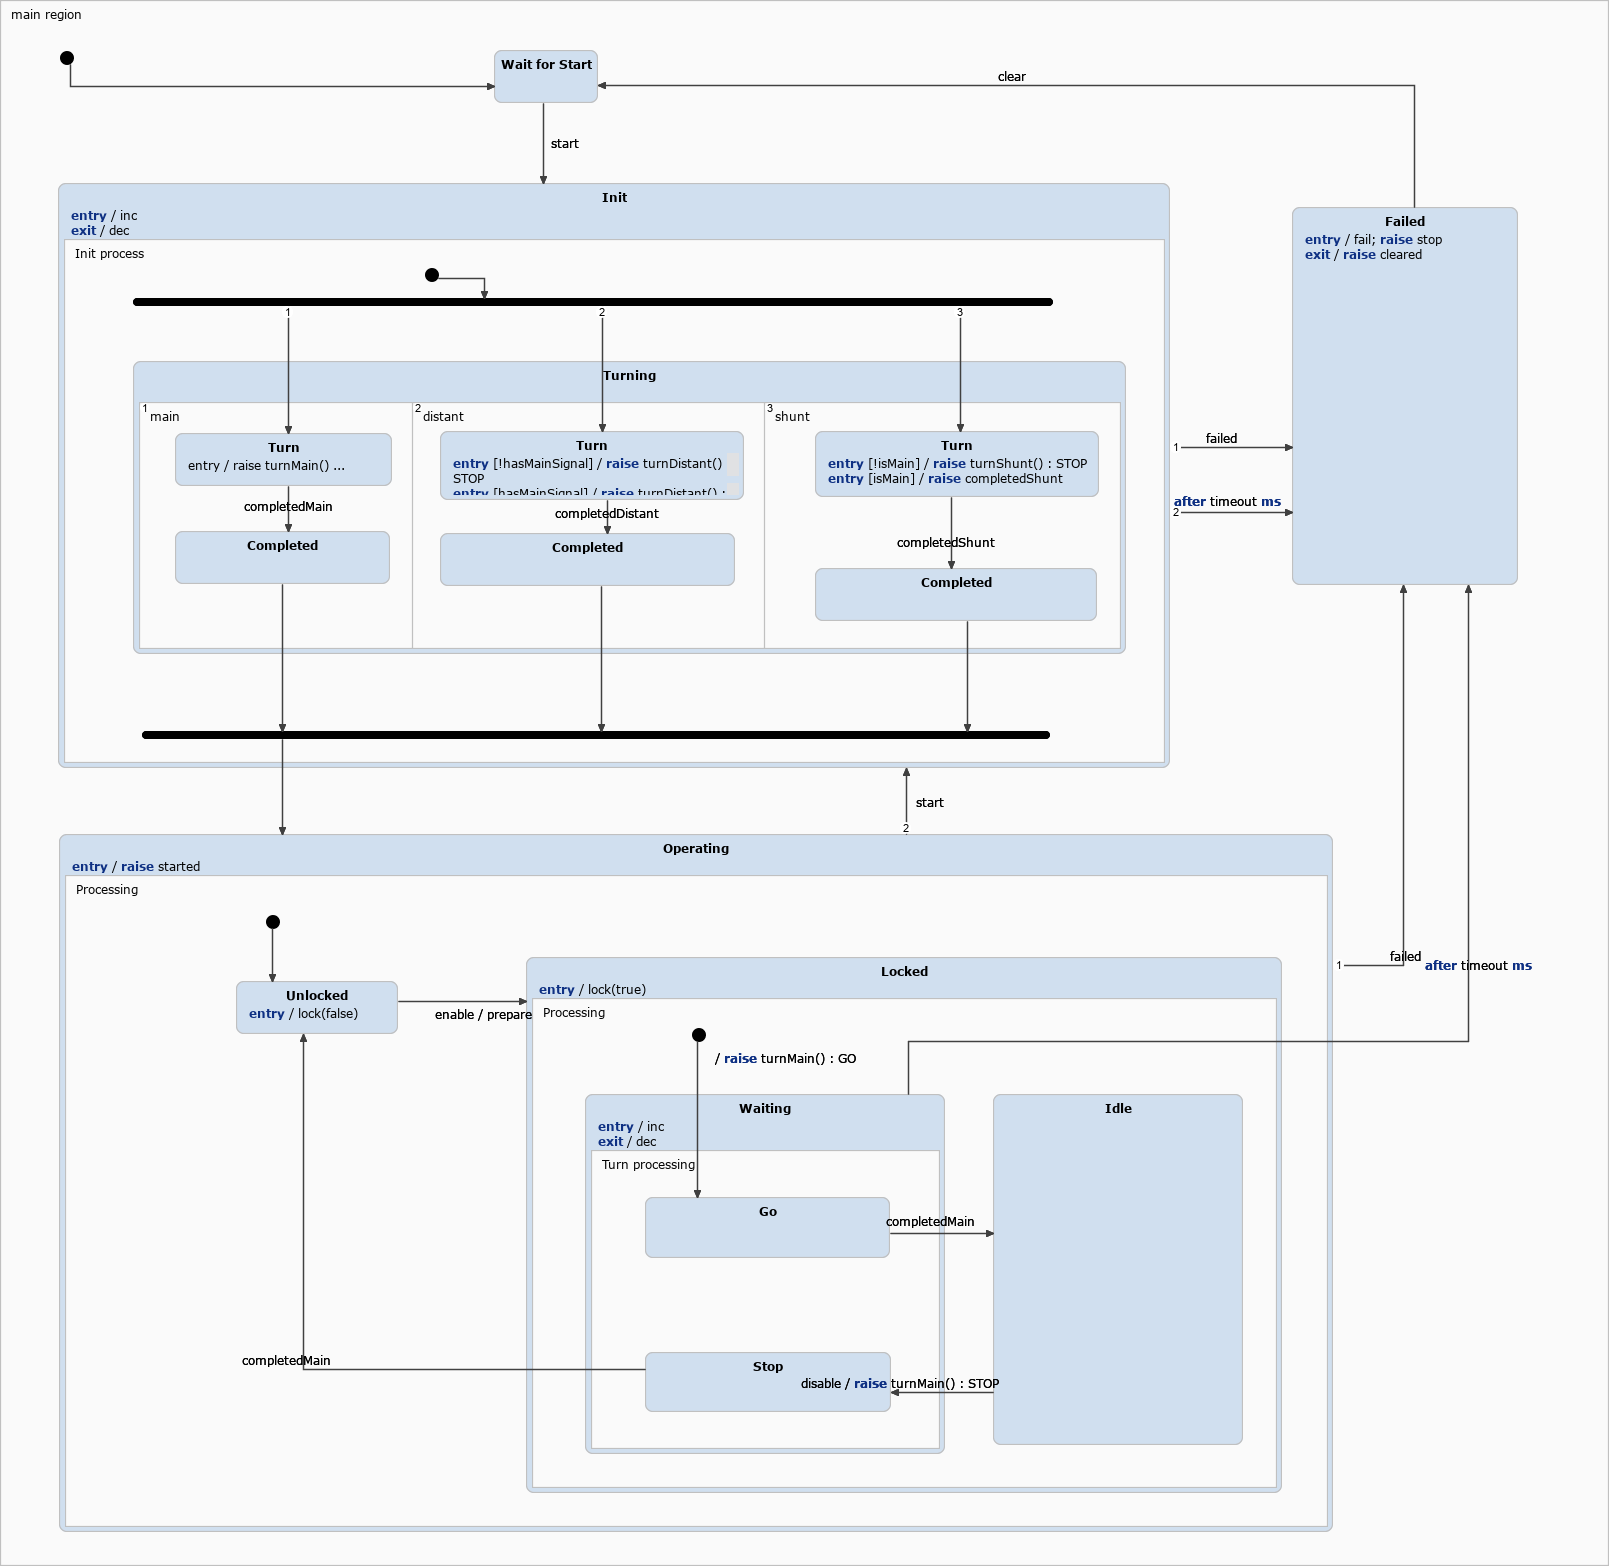
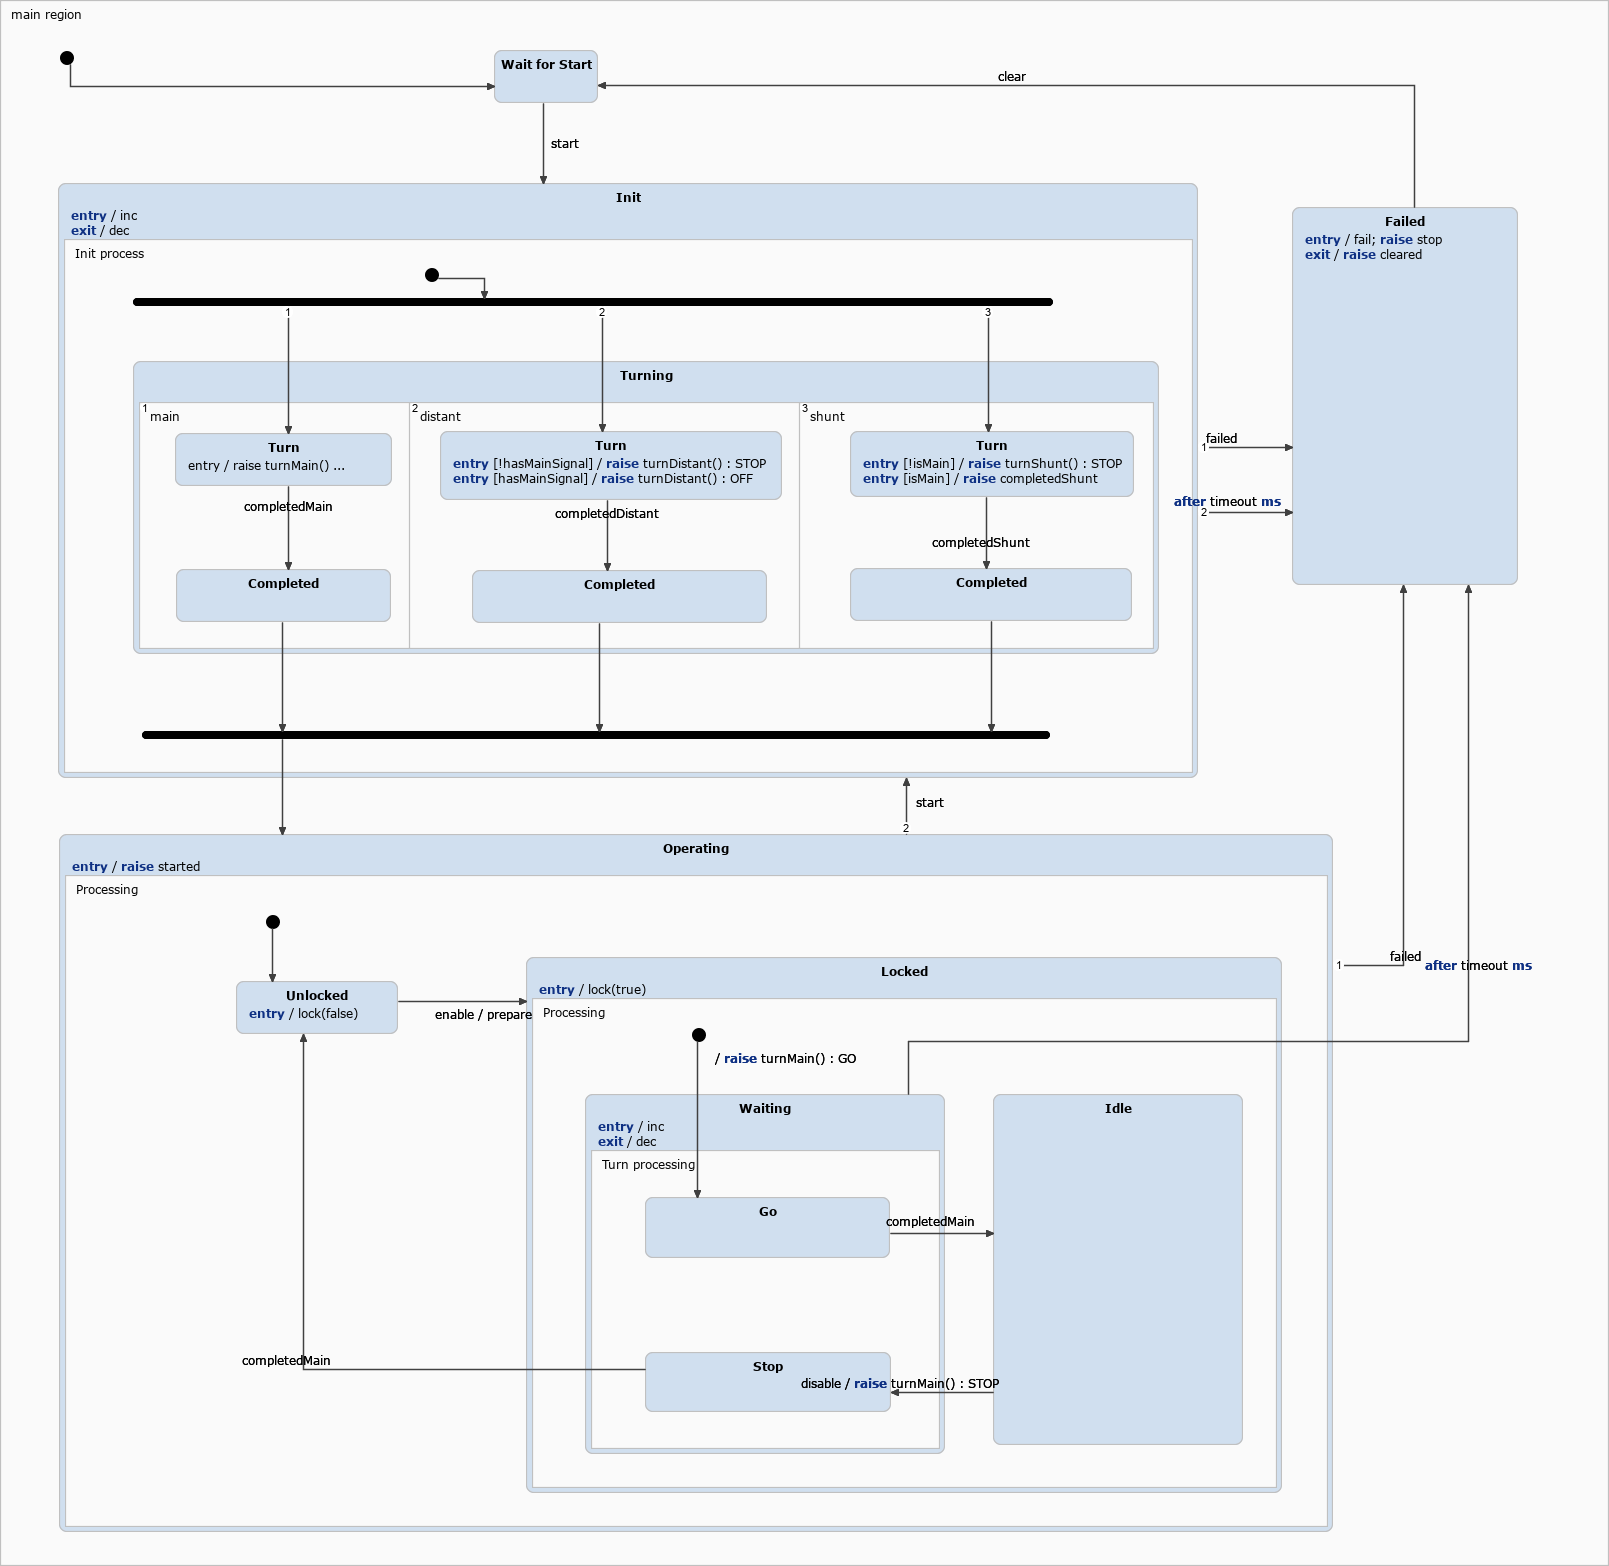
Respect curved rail parts.

diff --git a/track-control-ng/widgetroute.cpp b/track-control-ng/widgetroute.cpp
@@ -161,20 +161,24 @@ void WidgetRoute::prepareSignals(Section * last_section, RailPart * last_part)
 
 		section->parts<RailPart>(rails, [](const RailPart * part)
 		{
-			return part->reserved();
+			return part->reserved() && part->isBranch();
 		});
 		curved += rails.size();
 
 		if (controller != nullptr)
 		{
+			// OK, there is a signal...
 			if (controller->hasMain())
 			{
+				//  OK, a main signal starts a new block.
 				main_signal = controller->mainSignal();
 				controller->setCurved(curved);
 				curved = 0;
 			}
+
 			if (controller->hasDistant())
 			{
+				// OK, a distant signal has to reflect the main signals state.
 				controller->setDistantSignal(main_signal);
 			}
 		}

diff --git a/model/doublecrossswitch.cpp b/model/doublecrossswitch.cpp
@@ -145,12 +145,17 @@ QString DoubleCrossSwitch::key() const
 
 SwitchState DoubleCrossSwitch::switchState() const
 {
+	return isBranch() ?
+		SwitchState::SWITCH_STATE_LEFT :
+		SwitchState::SWITCH_STATE_RIGHT;
+}
+
+bool DoubleCrossSwitch::isBranch() const
+{
 	const bool b_active = unsigned(switch_state) & B_MASK;
 	const bool d_active = unsigned(switch_state) & D_MASK;
 
-	return b_active == d_active ?
-		SwitchState::SWITCH_STATE_LEFT :
-		SwitchState::SWITCH_STATE_RIGHT;
+	return b_active == d_active;
 }
 
 void DoubleCrossSwitch::setState(const State state, const bool force)

diff --git a/model/railpart.h b/model/railpart.h
@@ -189,6 +189,16 @@ namespace mrw::model
 		 */
 		bool reserved() const;
 
+		/**
+		 * This method returns true if the represented RailPart is curved or
+		 * a turn out branch of a switch. In case of a Rail the result is
+		 * static whereas the result of switches depends on its switching
+		 * state.
+		 *
+		 * @return True if the RailPart is a curved or branched.
+		 */
+		virtual bool isBranch() const = 0;
+
 	protected:
 		/**
 		 * This method resolves a connected RailPart from the EMF model.

diff --git a/model/doublecrossswitch.h b/model/doublecrossswitch.h
@@ -110,6 +110,7 @@ namespace mrw::model
 		QString               toString() const override;
 		QString               key() const override;
 		mrw::can::SwitchState switchState() const override;
+		bool                  isBranch() const override;
 
 	private:
 		void link() override;

diff --git a/model/regularswitch.cpp b/model/regularswitch.cpp
@@ -52,6 +52,11 @@ bool RegularSwitch::isRightHanded() const
 	return right_branch;
 }
 
+bool RegularSwitch::isBranch() const
+{
+	return isRightHanded() == (switch_state == State::AC);
+}
+
 RegularSwitch::State RegularSwitch::state() const
 {
 	return switch_state;

diff --git a/model/regularswitch.h b/model/regularswitch.h
@@ -75,6 +75,8 @@ namespace mrw::model
 
 		bool isRightHanded() const;
 
+		bool isBranch() const override;
+
 		/**
 		 * This method returns the internal state of this RegularSwitch. As
 		 * of the RegularSwitch::State enumeration it can have two states. So

diff --git a/statecharts/SectionStatechart.cpp b/statecharts/SectionStatechart.cpp
@@ -20,7 +20,7 @@ namespace mrw
 
 		SectionStatechart::SectionStatechart(QObject * parent) :
 			QObject(parent),
-			timeout(2000),
+			timeout(500),
 			auto_off(true),
 			auto_unlock(true),
 			timerService(nullptr),

diff --git a/model/rail.h b/model/rail.h
@@ -32,6 +32,7 @@ namespace mrw::model
 			const QDomElement  &  element);
 
 		bool valid() const override;
+		bool isBranch() const override;
 
 		/**
 		 * This method returns the rail name.

diff --git a/model/rail.cpp b/model/rail.cpp
@@ -47,6 +47,11 @@ bool Rail::valid() const
 		);
 }
 
+bool Rail::isBranch() const
+{
+	return is_branch;
+}
+
 const QString & Rail::name() const
 {
 	return partName();
